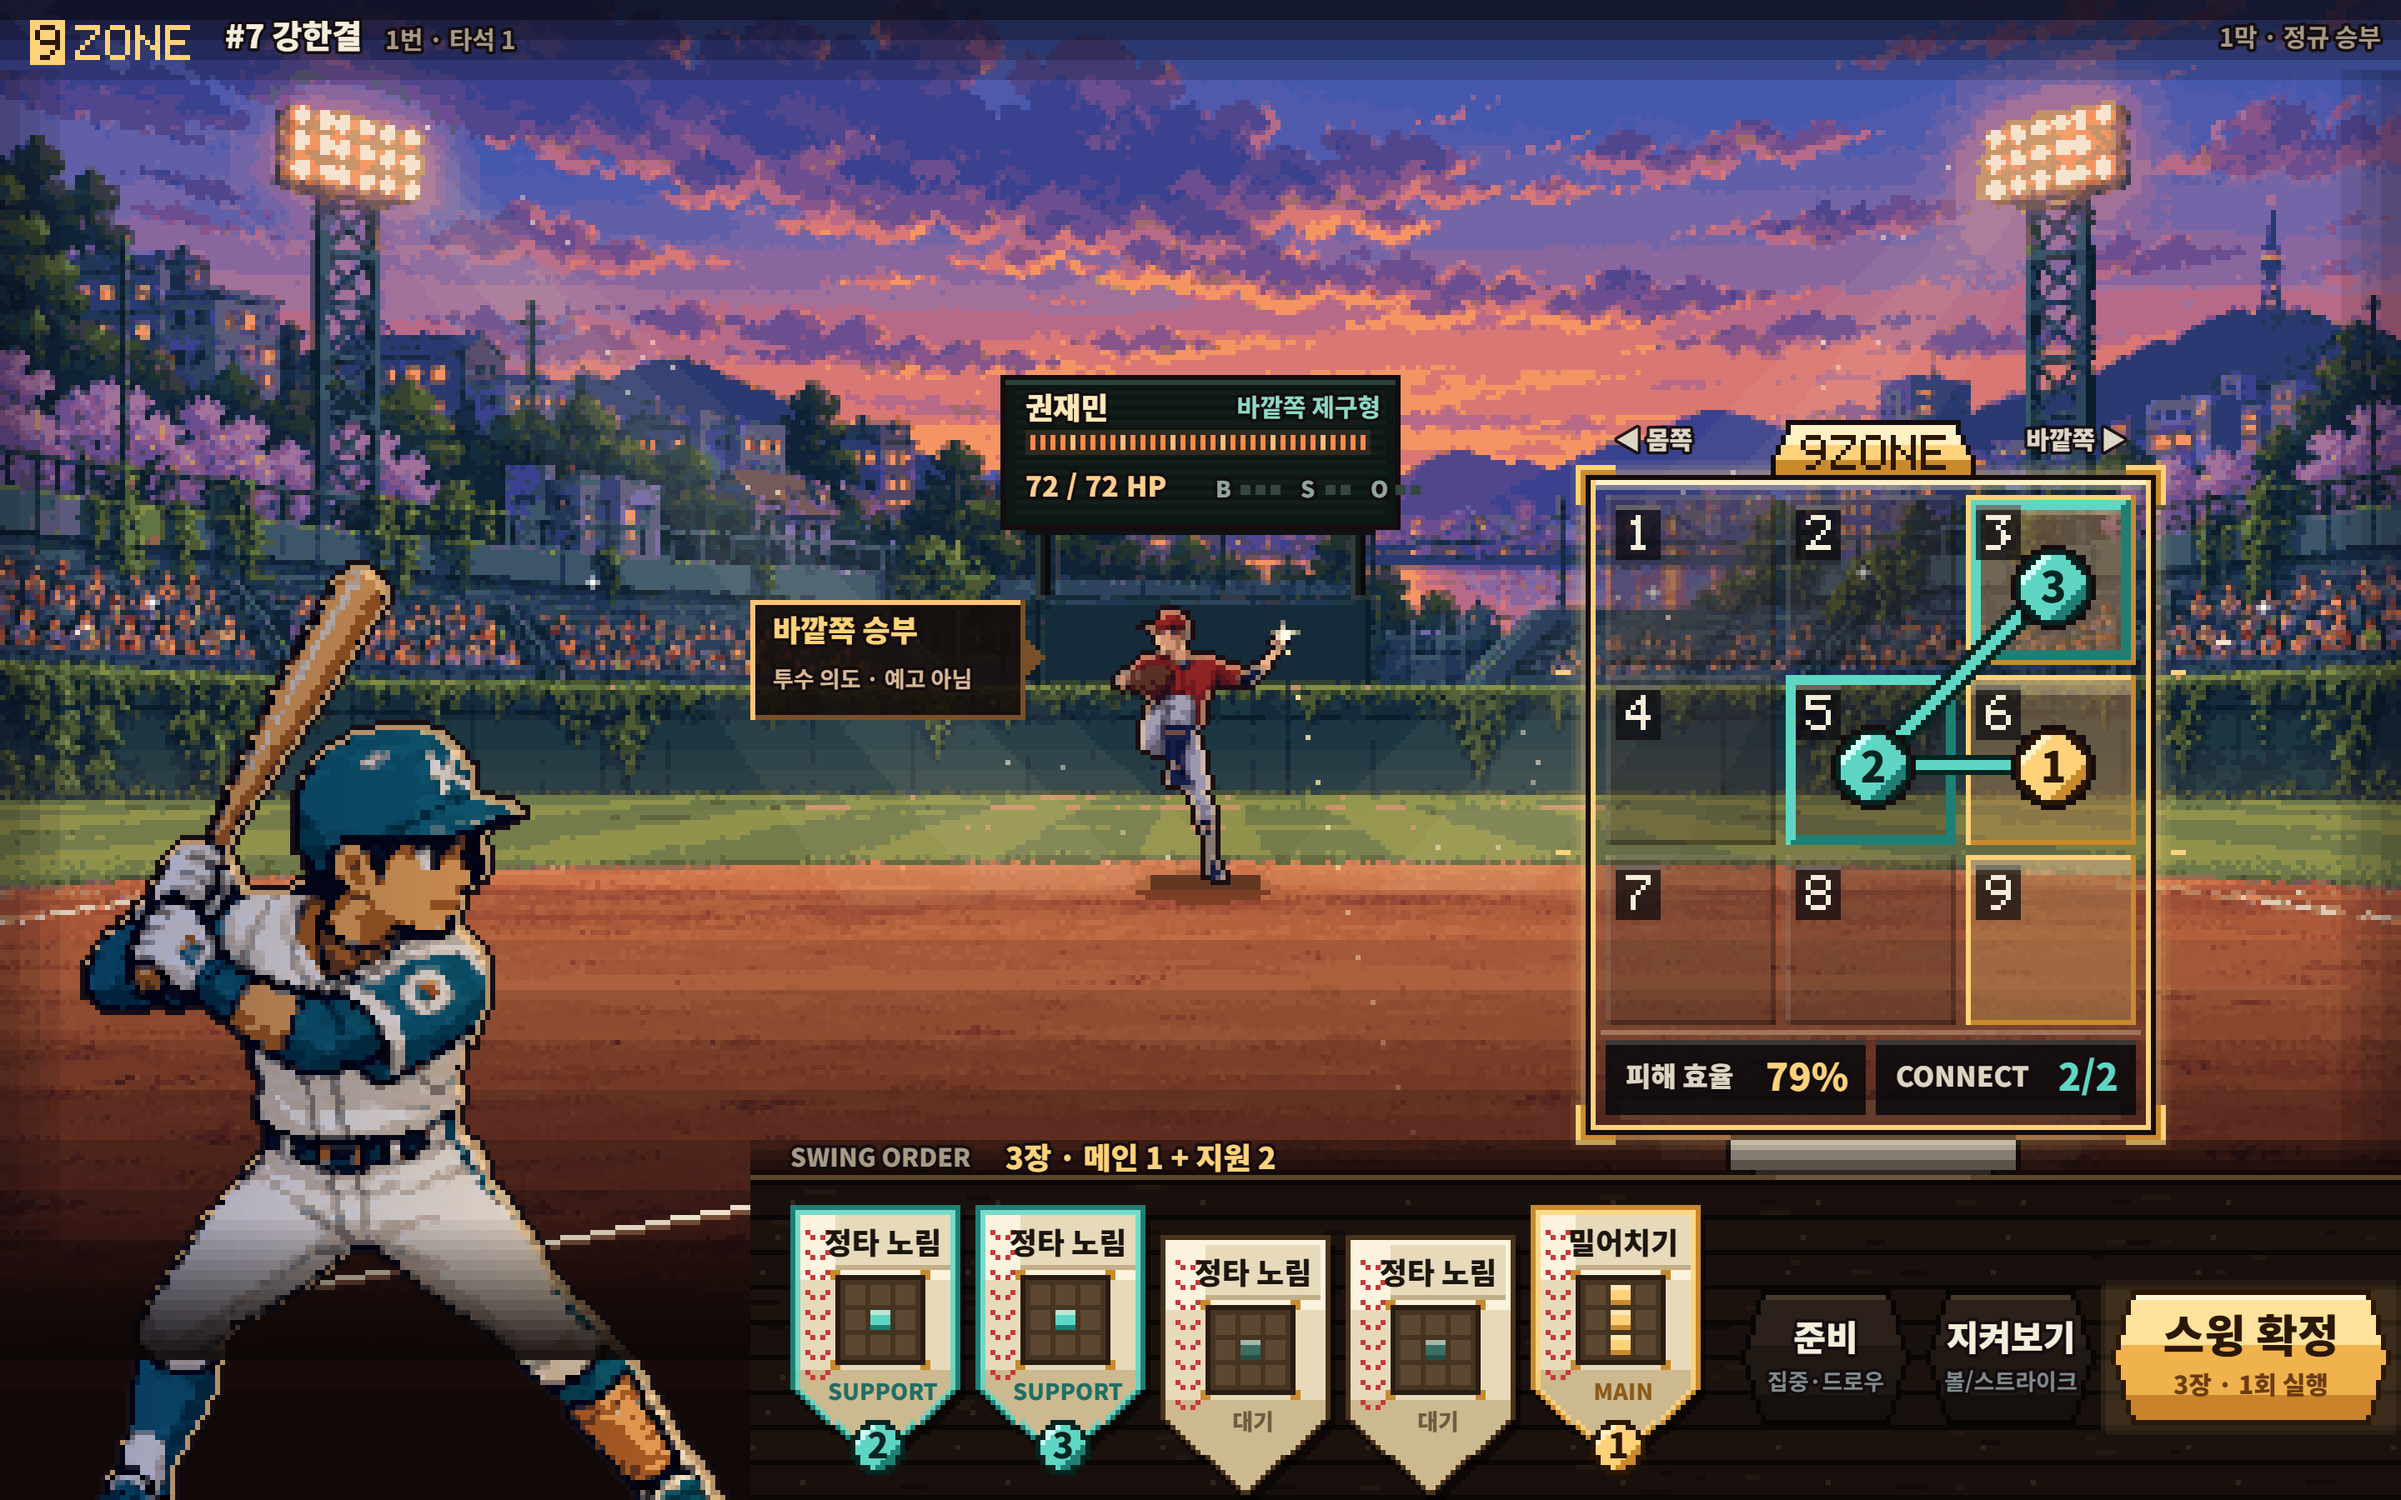
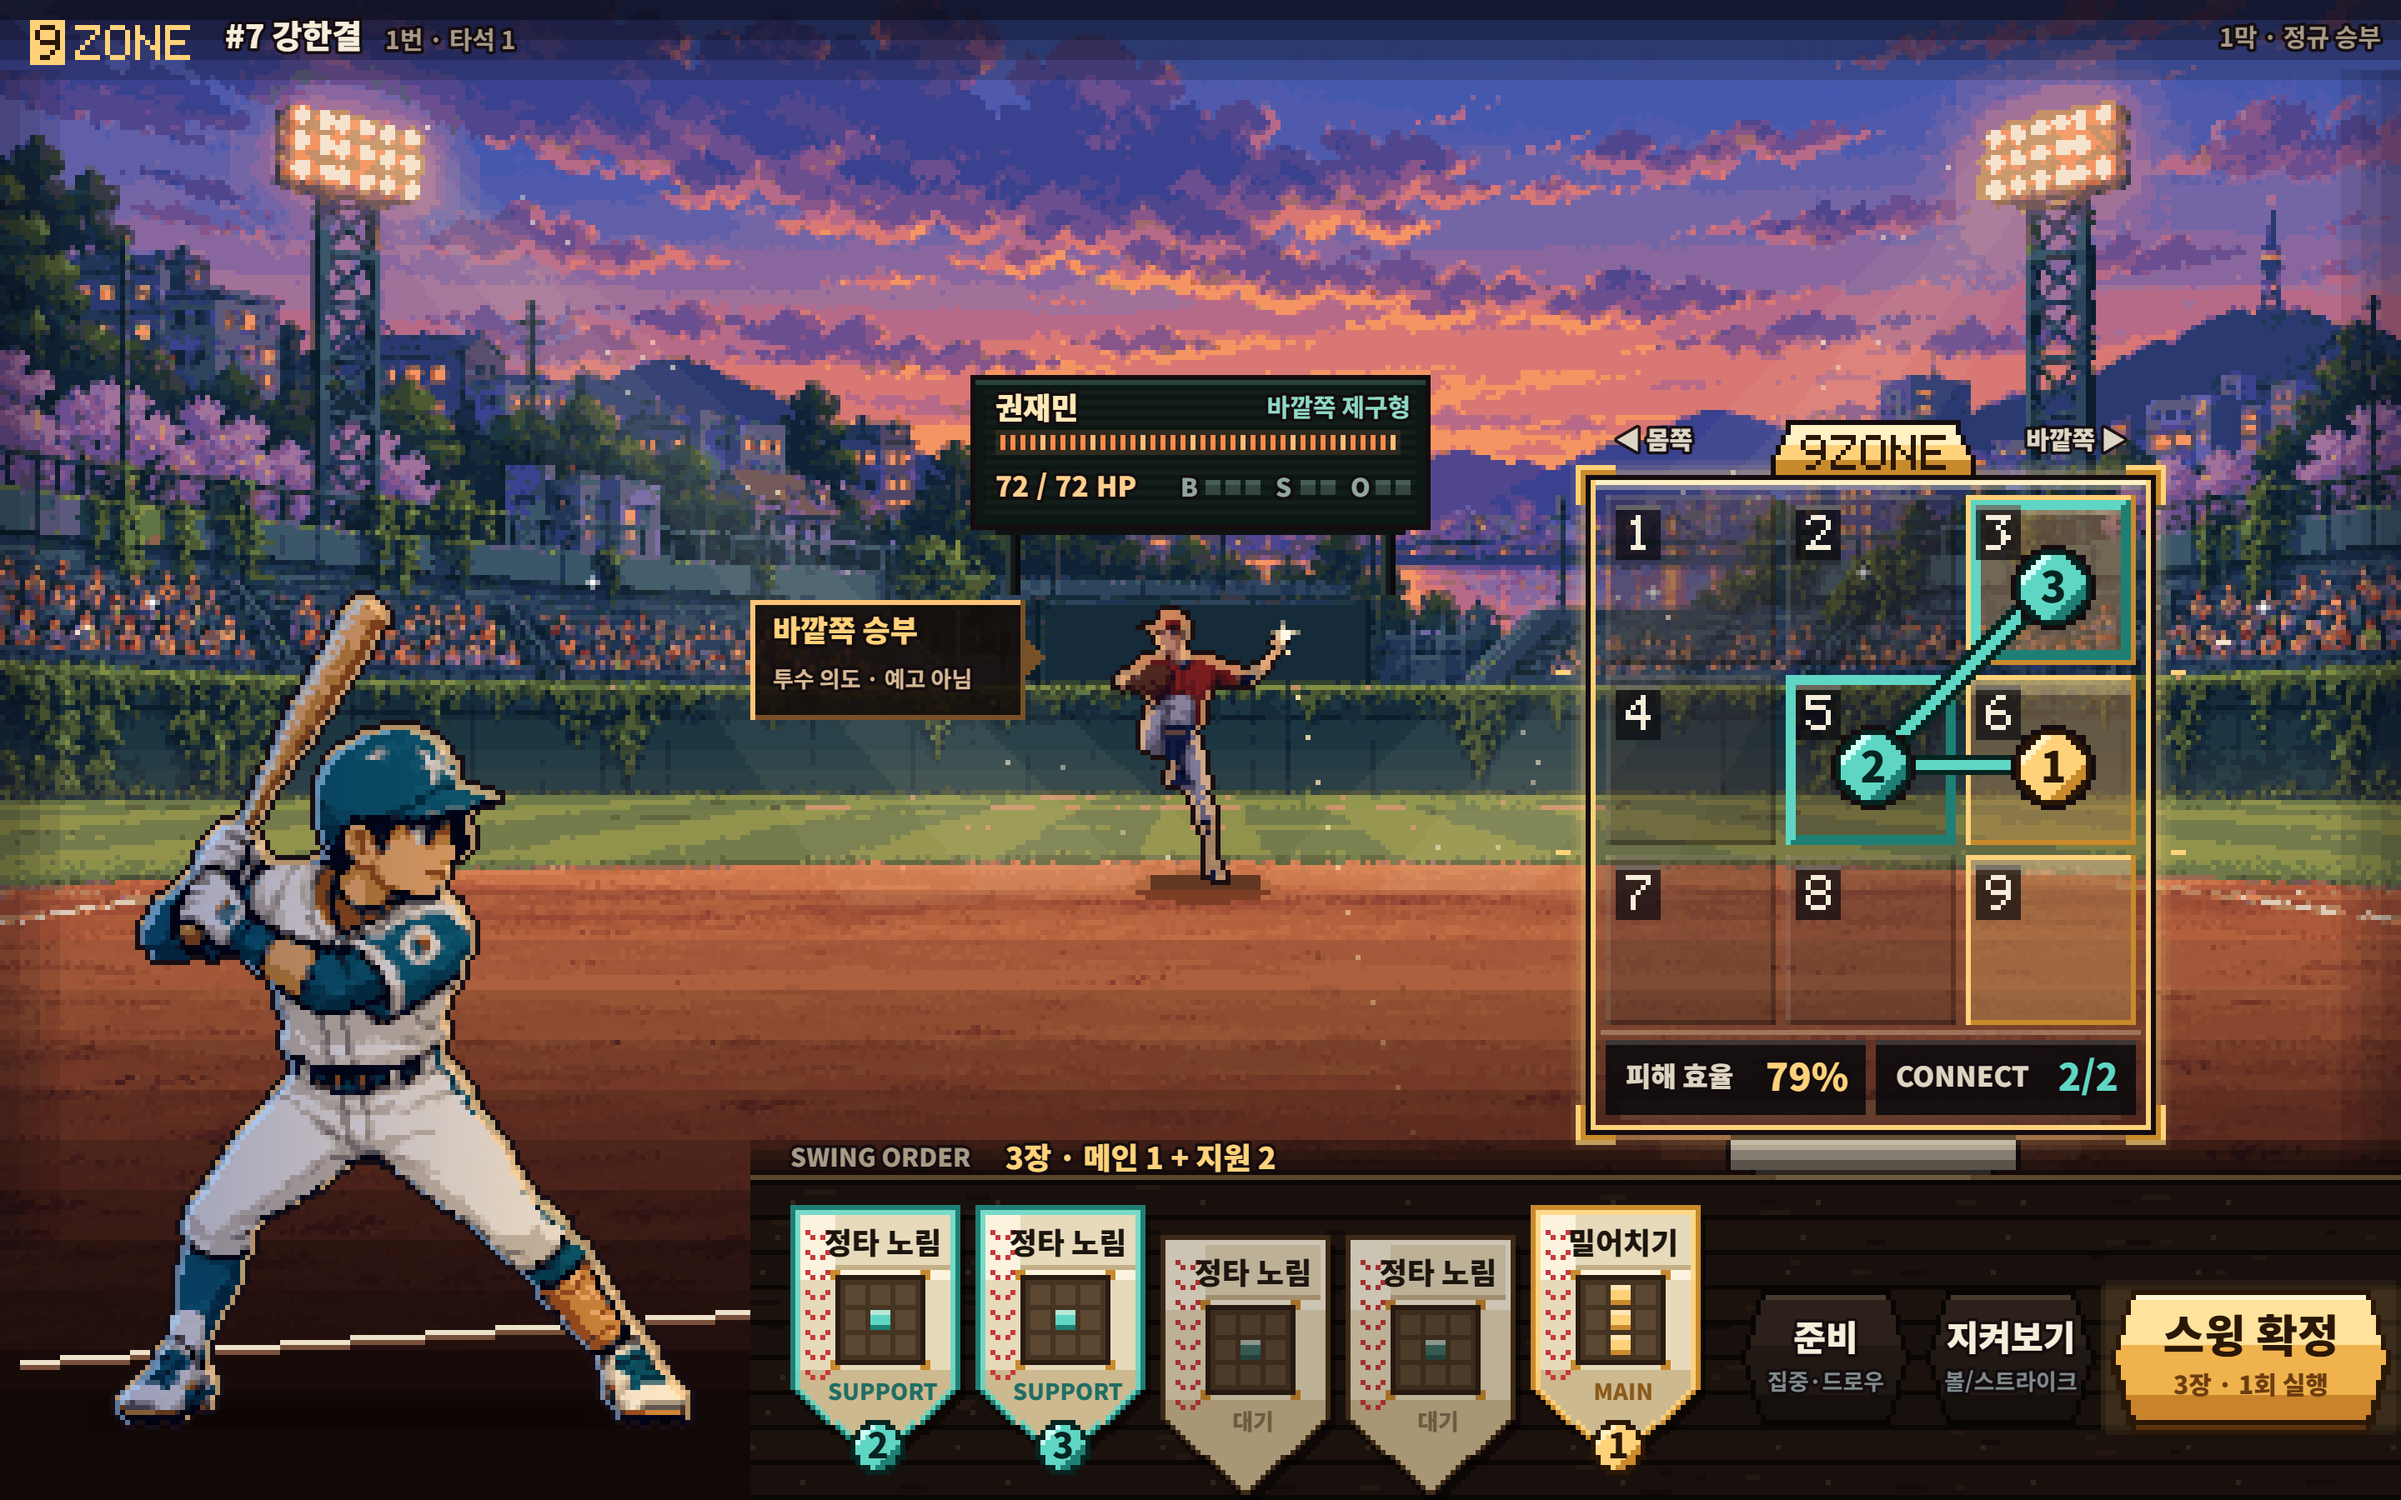
design(v12): LOOP 7 — act on an independent art-direction review
- pitcher is backlit by the sunset behind him: darker body, strong warm
  outline; batter gets a cool flood rim on his back to go with the sunset on
  his front (second rim in actorPass)
- landscape goes full bleed: no dark panel, a fine stepped scrim toward the
  right and the hand docking on dirt that falls into shade
- desktop batter stands on the clay: feet in frame, contact shadow, box chalk
- scoreboard widened with larger B/S/O pips; waiting cards dimmed; the swing
  button gets plate thickness; portrait dead band between hand and buttons
  closed with taller cards

Review points not taken: rim light, flight arc and gold=main/teal=support
already existed. A Korean bitmap font needs a download, left for the user.
All three captures read directly.

diff --git a/docs/design/v12/gm/parts.js b/docs/design/v12/gm/parts.js
@@ -39,17 +39,17 @@ P.board=(B,{posts=26}={})=>{const S=P.S;
   const seg=Math.floor((B.w-10)/2),on=Math.round(seg*S.pitcher.hp/S.pitcher.maxHp);
   for(let i=0;i<seg;i++)rect(B.x+5+i*2,B.y+11,1,3,i<on?(i%5===4?C.ledHi:C.led):[45,22,16]);
   K.wash(B.x+4,B.y+10,seg*2+1,5,C.led,.12);
-  let bx=B.x+B.w-36;const cnt=[['B',3,S.count.balls],['S',2,S.count.strikes],['O',2,S.count.outs]];
-  for(const [,n,o] of cnt){for(let i=0;i<n;i++)rect(bx+5+i*3,B.y+21,2,2,i<o?C.gold:[52,70,63]);bx+=5+n*3+3}
+  let bx=B.x+B.w-49;const cnt=[['B',3,S.count.balls],['S',2,S.count.strikes],['O',2,S.count.outs]];
+  for(const [,n,o] of cnt){for(let i=0;i<n;i++){rect(bx+5+i*4,B.y+20,3,3,i<o?C.gold:[52,70,63]);if(i>=o)rect(bx+5+i*4,B.y+20,3,1,[70,92,84])}bx+=5+n*4+2}
   text(S.pitcher.name,B.x*2+8,B.y*2+5,{size:12,weight:900,color:[255,233,184]});
   text('바깥쪽 제구형',(B.x+B.w)*2-6,B.y*2+6,{size:10,weight:700,color:[143,217,198],align:'right'});
-  let lx=(B.x+B.w-36)*2;for(const [l,n] of cnt){text(l,lx,B.y*2+39,{size:9,weight:900,color:[143,165,157]});lx+=(5+n*3+3)*2}
+  let lx=(B.x+B.w-49)*2;for(const [l,n] of cnt){text(l,lx,B.y*2+38,{size:10,weight:900,color:[143,165,157]});lx+=(5+n*4+2)*2}
   text(S.pitcher.hp+' / '+S.pitcher.maxHp+' HP',B.x*2+8,B.y*2+37,{size:11,weight:900,color:[255,207,143]});
 };
 
 // 3. DUEL: pitcher (feet at fx,fy) with ball and a path that fades before the zone (C5)
 P.pitcher=({fx,fy,h,path})=>{const w=Math.round(443*h/680),s=h/62;
-  const img=K.actorPass(K.kmeans(K.resample(K.pixels(P.img.pitcher),w,h,'mean'),18),{ink:[26,14,16],rim:[255,214,160],rimDirs:[[0,-1],[1,0],[-1,0]],fill:{from:[.9,.88,.98],to:[.78,.76,.9],axis:'y'},rimK:.5});
+  const img=K.actorPass(K.kmeans(K.resample(K.pixels(P.img.pitcher),w,h,'mean'),18),{ink:[26,14,16],rim:[255,196,128],rimDirs:[[0,-1],[1,0],[-1,0],[1,-1],[-1,-1]],fill:{from:[.78,.74,.88],to:[.6,.58,.74],axis:'y'},rimK:.62});
   const mr=Math.round(15*s),mx=fx,my=fy;
   for(let i=-mr;i<=mr;i++){const ww=Math.round(Math.sqrt(1-(i/mr)**2)*3*s);for(let j=-ww;j<=ww;j++)px(mx+i,my+j,j>0?[124,62,36]:[176,104,64])}
   K.wash(mx-Math.round(11*s),my-2,Math.round(24*s),3,[20,8,4],.5);
@@ -60,7 +60,7 @@ P.pitcher=({fx,fy,h,path})=>{const w=Math.round(443*h/680),s=h/62;
   return {x,y,w,h,ball:[bx,by]};
 };
 P.batter=({x,y,h})=>{const w=Math.round(509*h/730);
-  K.blit(K.actorPass(K.kmeans(K.resample(K.pixels(P.img.batter),w,h,'mode'),28),{ink:[22,14,20],rim:[255,204,140],rimDirs:[[1,0],[0,-1],[1,-1]],fill:{from:[.6,.64,.86],to:[1.02,.96,.9],axis:'x'},rimK:.7}),x,y);
+  K.blit(K.actorPass(K.kmeans(K.resample(K.pixels(P.img.batter),w,h,'mode'),28),{ink:[22,14,20],rim:[255,204,140],rimDirs:[[1,0],[0,-1],[1,-1]],fill:{from:[.6,.64,.86],to:[1.02,.96,.9],axis:'x'},rimK:.7,rim2:[170,210,255],rim2Dirs:[[-1,0],[-1,-1]],rim2K:.55}),x,y);
   return {x,y,w,h}};
 P.intent=(I,{pointer='left'}={})=>{
   rect(I.x,I.y,I.w,I.h,[20,12,8],.88);rect(I.x,I.y,I.w,1,[255,196,120]);rect(I.x,I.y+I.h-1,I.w,1,[120,80,40]);
@@ -120,12 +120,14 @@ P.card=(h,x,y,{w=34,hh=52}={})=>{const st=P.stackOf[h.id];y-=st?6:0;
   K.plateShape(x+1,y+2,w,hh,(X,Y)=>px(X,Y,[0,0,0],.45));
   K.plateShape(x,y,w,hh,(X,Y,ci,cj,edge)=>{if(edge){px(X,Y,st?(st.main?C.goldLo:C.tealLo):C.parchInk);return}const t=cj/hh;px(X,Y,t<.28?C.parch:t<.62?C.parch2:C.parch3)});
   if(st)K.plateShape(x+1,y+1,w-2,hh-2,(X,Y,ci,cj,edge)=>{if(edge)px(X,Y,st.main?C.gold:C.teal,.85)});
+  P._dim=!st;
   for(let j=5;j<34;j+=4){px(x+3,y+j,C.seam);px(x+4,y+j+1,C.seam);px(x+6,y+j+1,C.seam);px(x+7,y+j,C.seam)}
   rect(x+9,y+2,w-11,11,[214,196,158],.55);rect(x+9,y+12,w-11,1,[180,156,112],.7);
   const mx=x+Math.round(w/2)-6,my=y+16,on=st?(st.main?C.gold:C.teal):[60,110,100],onLo=st?(st.main?C.goldLo:C.tealLo):[40,80,72];
   rect(mx-2,my-2,18,18,[40,28,18]);rect(mx-1,my-1,16,16,[70,52,34]);
   for(let k=0;k<9;k++){const gx=mx+(k%3)*5,gy=my+Math.floor(k/3)*5,lit=shapeCells[h.shape].includes(k);rect(gx,gy,4,4,lit?on:[92,72,50]);if(lit){rect(gx,gy,4,1,[255,248,230],.55);rect(gx,gy+3,4,1,onLo)}}
   for(const [cx,cy,sx,sy] of [[mx-3,my-3,1,1],[mx+16,my-3,-1,1],[mx-3,my+16,1,-1],[mx+16,my+16,-1,-1]]){px(cx,cy,C.goldLo);px(cx+sx,cy,C.goldLo);px(cx,cy+sy,C.goldLo)}
+  if(P._dim)K.plateShape(x,y,w,hh,(X,Y)=>px(X,Y,[20,12,8],.2));                               // waiting cards sit back
   const cx=x+Math.round(w/2),cy=y+hh-4;
   if(st)disc(cx,cy,5,st.main?C.goldHi:C.tealHi,st.main?C.gold:C.teal,st.main?C.goldLo:C.tealLo,st.main?C.goldInk:C.tealInk);
   text(h.name,x*2+w+3,y*2+9,{size:12,weight:900,color:[28,22,15],align:'center',ring:false});
@@ -139,6 +141,7 @@ P.handLabel=(x,y)=>{const S=P.S;text('SWING ORDER',x*2,y*2,{size:10,weight:800,c
 P.buttons=({x,y,h=27,small=38,gapX=3,goW})=>{const S=P.S,dark=[[44,33,26],[32,24,19],[22,16,13]];
   K.hexButton(x,y,small,h,dark,[8,6,5],[70,58,46]);K.hexButton(x+small+gapX,y,small,h,dark,[8,6,5],[70,58,46]);
   const gx=x+2*(small+gapX);K.wash(gx-2,y-1,goW+4,h+2,C.gold,.10);K.wash(gx-1,y-2,goW+2,h+4,C.gold,.06);
+  K.hexButton(gx,y+2,goW,h,[[120,70,20],[120,70,20],[90,50,14]],C.goldInk);                     // the plate's thickness
   K.hexButton(gx,y,goW,h,[[255,226,155],[240,178,76],[201,131,42]],C.goldInk,[255,246,214]);
   const mid=(bx,bw)=>(bx+bw/2)*2,ty=y*2;
   text('준비',mid(x,small),ty+12,{size:14,weight:900,align:'center'});text('집중·드로우',mid(x,small),ty+32,{size:9,weight:700,color:[127,138,140],align:'center'});

diff --git a/docs/design/v12/gm/pixel-kit.js b/docs/design/v12/gm/pixel-kit.js
@@ -56,7 +56,7 @@ K.kmeans=(img,k)=>{
 const alphaAt=(w,h,d,x,y)=>x<0||y<0||x>=w||y>=h?0:d[(y*w+x)*4+3];
 // Actor finish: drop specks, rebuild 1px ink, backlight rim toward the light, cool shadow fill.
 // fill may be [r,g,b] or {from:[r,g,b],to:[r,g,b],axis:'x'|'y'} for light falling across the body
-K.actorPass=(img,{ink,rim,rimDirs,fill,rimK=.6})=>{
+K.actorPass=(img,{ink,rim,rimDirs,fill,rimK=.6,rim2=null,rim2Dirs=[],rim2K=.5})=>{
   const fillAt=(x,y)=>{if(Array.isArray(fill))return fill;const t=fill.axis==='y'?y/img.h:x/img.w;return fill.from.map((v,i)=>v+(fill.to[i]-v)*t)};
   const w=img.w,h=img.h,d=img.d,copy=new Uint8ClampedArray(d);
   for(let y=0;y<h;y++)for(let x=0;x<w;x++){const i=(y*w+x)*4;if(!copy[i+3])continue;let n=0;
@@ -65,7 +65,8 @@ K.actorPass=(img,{ink,rim,rimDirs,fill,rimK=.6})=>{
   for(let y=0;y<h;y++)for(let x=0;x<w;x++){const i=(y*w+x)*4;if(!base[i+3])continue;
     const f=fillAt(x,y);d[i]*=f[0];d[i+1]*=f[1];d[i+2]*=f[2];
     if([[1,0],[-1,0],[0,1],[0,-1]].some(([a,b])=>!alphaAt(w,h,base,x+a,y+b))){d[i]=ink[0];d[i+1]=ink[1];d[i+2]=ink[2];continue}
-    if(rimDirs.some(([a,b])=>!alphaAt(w,h,base,x+2*a,y+2*b))){d[i]+=(rim[0]-d[i])*rimK;d[i+1]+=(rim[1]-d[i+1])*rimK;d[i+2]+=(rim[2]-d[i+2])*rimK}}
+    if(rimDirs.some(([a,b])=>!alphaAt(w,h,base,x+2*a,y+2*b))){d[i]+=(rim[0]-d[i])*rimK;d[i+1]+=(rim[1]-d[i+1])*rimK;d[i+2]+=(rim[2]-d[i+2])*rimK}
+    else if(rim2&&rim2Dirs.some(([a,b])=>!alphaAt(w,h,base,x+2*a,y+2*b))){d[i]+=(rim2[0]-d[i])*rim2K;d[i+1]+=(rim2[1]-d[i+1])*rim2K;d[i+2]+=(rim2[2]-d[i+2])*rim2K}}
   return img;
 };
 // deterministic noise so every capture is identical

diff --git a/docs/design/v12/gm/scene-landscape.js b/docs/design/v12/gm/scene-landscape.js
@@ -13,16 +13,17 @@ GM.dust(18,(t,r)=>[Math.round(6+t*120+r*16),Math.round(t*140+6)]);
 GM.flashes([[28,76],[196,70],[60,82]]);
 
 // 2–3. opponent and duel
-GM.board({x:112,y:22,w:78,h:29});
+GM.board({x:106,y:22,w:90,h:29});
 GM.pitcher({fx:151,fy:133,h:62,path:[112,158]});
 GM.batter({x:-34,y:36,h:200});
 for(let k=0;k<6;k++)K.wash(0,165+k*5,236,5,[12,7,6],(k+1)/6*.85);
 GM.edges(14,181,236);
 GM.intent({x:176,y:92,w:55,h:24});
 
-// right command panel: dark glass over the same stadium, gold lip on its seam
-K.wash(236,0,186,195,[10,8,14],.8);K.wash(236,0,186,195,[40,24,16],.18);
-rect(236,14,1,181,[255,210,122],.45);K.wash(237,14,2,181,[255,210,122],.1);
+// full bleed: no panel. The stadium runs edge to edge; a stepped scrim deepens toward the right
+// so the command side stays legible, and the hand docks on dirt that falls into shade.
+for(let k=0;k<26;k++)K.wash(214+k*8,0,8,195,[10,8,14],.05+k*.024);
+GM.shade(236,138,186,57,6,[16,9,8],.72);
 
 // 4. 9ZONE — top-right, the plate falls away because the zone is now the command device
 GM.zone({x:246,y:26,cell:27,plate:false});

diff --git a/docs/design/v12/gm/scene-desktop.js b/docs/design/v12/gm/scene-desktop.js
@@ -15,13 +15,13 @@ GM.shafts([[[[62,24],[82,24],[250,176],[170,182]],.06],[[[68,24],[78,24],[228,17
   [[[402,24],[422,24],[330,180],[252,176]],.055],[[[408,24],[416,24],[306,178],[276,177]],.06]]);
 GM.dust(40,(t,r,i)=>i%2===0?[Math.round(70+t*150+r*20),Math.round(24+t*150)]:[Math.round(410-t*110-r*20),Math.round(24+t*150)]);
 GM.flashes([[30,120],[118,116],[372,114],[452,121],[330,118]]);
-K.line(30,262,176,236,[236,226,202]);K.line(30,263,176,237,[120,80,60]);
+K.line(4,272,150,262,[236,226,202]);K.line(4,273,150,263,[120,80,60]);
 
 // 2–3. opponent and duel
-GM.board({x:201,y:76,w:78,h:29},{posts:14});
+GM.board({x:195,y:76,w:90,h:29},{posts:14});
 GM.pitcher({fx:240,fy:177,h:56,path:[276,226]});
-GM.batter({x:10,y:112,h:204});
-for(let k=0;k<14;k++)K.wash(0,244+k*2,170,2,[12,7,6],(k+1)/14*.9);
+for(let r=0;r<3;r++)K.wash(18+r*6,280+r,110-r*12,6-r*2,[10,4,2],.28);                        // contact shadow
+GM.batter({x:22,y:118,h:168});
 GM.edges(14,236,480);
 GM.intent({x:150,y:120,w:55,h:24},{pointer:'right'});
 

diff --git a/docs/design/v12/gm/scene.js b/docs/design/v12/gm/scene.js
@@ -14,7 +14,7 @@ GM.flashes([[23,79],[161,73],[178,84],[40,86]]);
 K.line(0,275,80,262,[236,226,202]);K.line(0,276,80,263,[120,80,60]);K.line(176,281,194,285,[236,226,202]);
 
 // 2–3. opponent and duel
-GM.board({x:58,y:34,w:78,h:29});
+GM.board({x:52,y:34,w:90,h:29});
 GM.pitcher({fx:102,fy:131,h:62,path:[129,134]});
 GM.batter({x:-39,y:131,h:200});
 for(let k=0;k<8;k++)K.wash(0,268+k*3,95,3,[12,7,6],(k+1)/8*.9);
@@ -29,10 +29,10 @@ GM.zone({x:82,y:145,cell:32});
 // 5. hand
 K.rect(0,288,195,1,[255,210,122],.3);K.wash(0,289,195,2,[255,210,122],.08);
 GM.handLabel(7,292);
-S.hand.forEach((h,i)=>GM.card(h,5+i*37,315));
+S.hand.forEach((h,i)=>GM.card(h,5+i*37,318,{hh:56}));
 
 // 6. execute + top strip
-GM.buttons({x:6,y:388,goW:101});
+GM.buttons({x:6,y:386,goW:101});
 GM.topbar(195);
 GM.done();
 })().catch(GM.fail);
